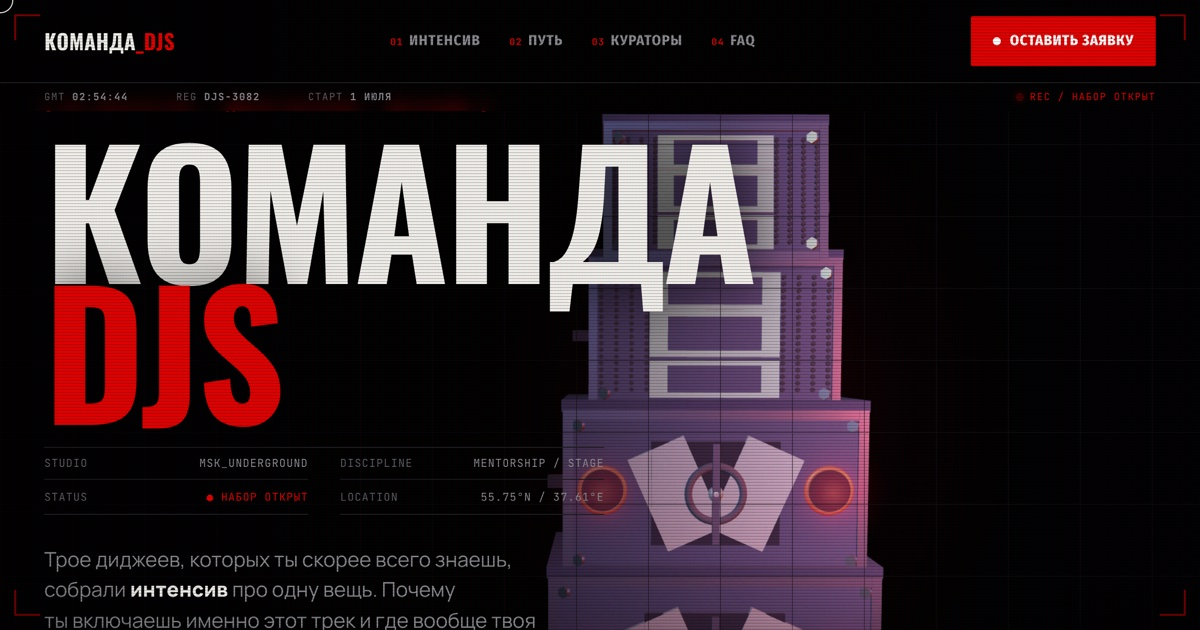
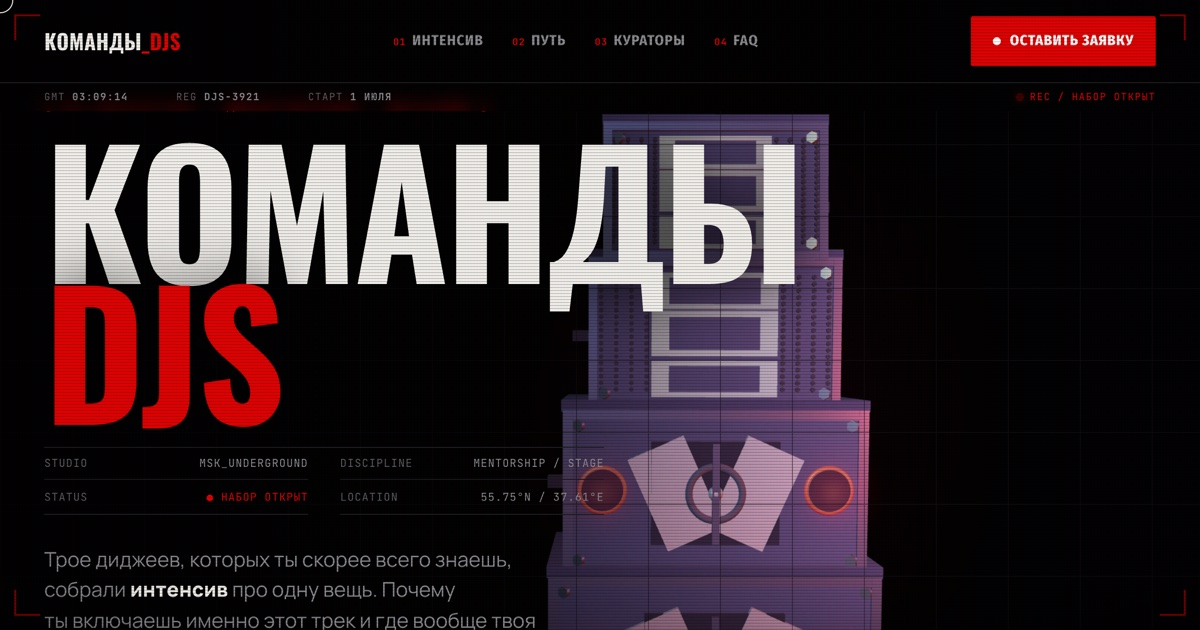
rebrand: КОМАНДА → КОМАНДЫ (бренд/hero/прелоадер/SEO) + новый OG-скриншот

diff --git a/index.html b/index.html
@@ -5,7 +5,7 @@
   <meta name="viewport" content="width=device-width, initial-scale=1.0" />
 
   <!-- ░░ SEO / GEO ░░ -->
-  <title>КОМАНДА DJS · месяц-интенсив по музыкальному вкусу с тремя кураторами</title>
+  <title>КОМАНДЫ DJS · месяц-интенсив по музыкальному вкусу с тремя кураторами</title>
   <meta name="description" content="Это не курс, а месяц реальной работы. Трое диджеев (Никита Меньшов, Никита Соболь, Сергей Донских) собрали интенсив про музыкальный вкус: задания и личная обратная связь по твоей библиотеке. Старт 1 июля, набор ограничен." />
   <meta name="robots" content="index,follow" />
   <meta name="theme-color" content="#000000" />
@@ -14,14 +14,14 @@
   <!-- ░░ Open Graph ░░ -->
   <meta property="og:type" content="website" />
   <meta property="og:locale" content="ru_RU" />
-  <meta property="og:site_name" content="КОМАНДА DJS" />
+  <meta property="og:site_name" content="КОМАНДЫ DJS" />
   <meta property="og:url" content="https://nikumen.github.io/komanda-djs/" />
-  <meta property="og:title" content="КОМАНДА DJS · месяц-интенсив по музыкальному вкусу" />
+  <meta property="og:title" content="КОМАНДЫ DJS · месяц-интенсив по музыкальному вкусу" />
   <meta property="og:description" content="Это не курс. Это месяц реальной работы с тремя кураторами: Меньшов, Соболь, Донских. Задания и личная обратная связь по твоей библиотеке. ● СТАРТ 1 ИЮЛЯ." />
   <meta property="og:image" content="https://nikumen.github.io/komanda-djs/assets/img/og.jpg" />
   <meta property="og:image:width" content="1200" />
   <meta property="og:image:height" content="630" />
-  <meta property="og:image:alt" content="КОМАНДА DJS — интенсив, hero с саунд-системой" />
+  <meta property="og:image:alt" content="КОМАНДЫ DJS — интенсив, hero с саунд-системой" />
   <meta name="twitter:card" content="summary_large_image" />
   <meta name="twitter:image" content="https://nikumen.github.io/komanda-djs/assets/img/og.jpg" />
 
@@ -40,7 +40,7 @@
       {
         "@type": "Organization",
         "@id": "#org",
-        "name": "КОМАНДА DJS",
+        "name": "КОМАНДЫ DJS",
         "description": "Месяц-интенсив по музыкальному вкусу для диджеев с тремя кураторами. Задания и личная обратная связь по библиотеке. Старт 1 июля, набор ограничен.",
         "areaServed": "RU"
       },
@@ -100,8 +100,8 @@
   <!-- ░░ NAV / broadcast-бар ░░ -->
   <header class="nav" id="nav">
     <div class="nav__inner">
-      <a class="nav__brand" href="#hero" aria-label="КОМАНДА DJS, на главную" data-magnet>
-        КОМАНДА<span class="nav__brand-dim">_DJS</span>
+      <a class="nav__brand" href="#hero" aria-label="КОМАНДЫ DJS, на главную" data-magnet>
+        КОМАНДЫ<span class="nav__brand-dim">_DJS</span>
       </a>
       <nav class="nav__links" aria-label="Основная навигация">
         <a class="nav__link" href="#about"><span class="nav__link-idx">01</span> Интенсив</a>
@@ -129,7 +129,7 @@
       <div class="hero__inner">
         <p class="hero__kicker mono">[ DJ COLLECTIVE · ДИСПЕТЧЕРСКАЯ · ИНТЕНСИВ ]</p>
         <h1 class="hero__title" id="hero-heading">
-          <span class="hero__line" data-scramble>КОМАНДА</span>
+          <span class="hero__line" data-scramble>КОМАНДЫ</span>
           <span class="hero__line hero__line--accent" data-scramble>DJS</span>
         </h1>
         <dl class="meta" aria-label="Параметры коллектива">
@@ -355,14 +355,14 @@
   <!-- ░░ FOOTER ░░ -->
   <footer class="footer">
     <div class="wrap footer__inner">
-      <div class="footer__brand">КОМАНДА<span class="nav__brand-dim">_DJS</span></div>
+      <div class="footer__brand">КОМАНДЫ<span class="nav__brand-dim">_DJS</span></div>
       <nav class="footer__links" aria-label="Footer">
         <a href="#about">Интенсив</a>
         <a href="#structure">Путь</a>
         <a href="#curators">Кураторы</a>
         <button class="linklike" data-apply type="button">Заявка</button>
       </nav>
-      <p class="footer__copy mono">© <span id="year">2026</span> КОМАНДА DJS · диспетчерская андеграунда</p>
+      <p class="footer__copy mono">© <span id="year">2026</span> КОМАНДЫ DJS · диспетчерская андеграунда</p>
     </div>
   </footer>
 
@@ -418,6 +418,6 @@
   <!-- ░░ GSAP + ScrollTrigger (defer). three.js грузится lazy из app.js после прелоадера ░░ -->
   <script defer src="https://cdnjs.cloudflare.com/ajax/libs/gsap/3.12.5/gsap.min.js"></script>
   <script defer src="https://cdnjs.cloudflare.com/ajax/libs/gsap/3.12.5/ScrollTrigger.min.js"></script>
-  <script defer src="assets/js/app.js?v=5"></script>
+  <script defer src="assets/js/app.js?v=6"></script>
 </body>
 </html>

diff --git a/assets/js/app.js b/assets/js/app.js
@@ -1,5 +1,5 @@
 /* ════════════════════════════════════════════════════════════════
-   КОМАНДА DJS · variant C — app.js
+   КОМАНДЫ DJS · variant C — app.js
    Прелоадер (canvas-набрызг + gooey-потёки) · GSAP-оркестрация ·
    тикер · модалка · lazy three.js
    ════════════════════════════════════════════════════════════════ */
@@ -14,7 +14,7 @@
   function reg() { return 'DJS-' + String(1000 + Math.floor(Math.random() * 8999)); }
   var REG = reg();
 
-  /* ════════ ПРЕЛОАДЕР — canvas-набрызг «КОМАНДА DJS» ════════ */
+  /* ════════ ПРЕЛОАДЕР — canvas-набрызг «КОМАНДЫ DJS» ════════ */
   function preloader(done) {
     var pre = $('#preloader'), cv = $('#sprayCanvas'), numEl = $('#plNum'), barEl = $('#plBar'), regEl = $('#plReg');
     if (regEl) regEl.textContent = 'REG ' + REG;
@@ -23,7 +23,7 @@
     if (RM) { // reduced-motion: статичный логотип, быстрый уход
       var ctxR = cv.getContext('2d'); cv.width = 760; cv.height = 280;
       ctxR.fillStyle = '#f3f1ec'; ctxR.font = '700 120px Oswald, sans-serif'; ctxR.textAlign = 'center'; ctxR.textBaseline = 'middle';
-      ctxR.fillText('КОМАНДА', 380, 96); ctxR.fillStyle = '#e00000'; ctxR.fillText('DJS', 380, 210);
+      ctxR.fillText('КОМАНДЫ', 380, 96); ctxR.fillStyle = '#e00000'; ctxR.fillText('DJS', 380, 210);
       if (numEl) numEl.textContent = '100'; if (barEl) barEl.style.width = '100%';
       setTimeout(function () { finish(pre, done); }, 500); return;
     }
@@ -37,7 +37,7 @@
       ctx.clearRect(0, 0, W, H);
       ctx.fillStyle = '#fff'; ctx.textAlign = 'center'; ctx.textBaseline = 'middle';
       ctx.font = '700 116px Oswald, "Fira Sans Condensed", sans-serif';
-      ctx.fillText('КОМАНДА', W / 2, 92);
+      ctx.fillText('КОМАНДЫ', W / 2, 92);
       ctx.fillText('DJS', W / 2, 206);
       var d = ctx.getImageData(0, 0, W * DPR, H * DPR).data, w = W * DPR;
       pts = [];

diff --git a/assets/js/accent3d.js b/assets/js/accent3d.js
@@ -1,5 +1,5 @@
 /* ════════════════════════════════════════════════════════════════
-   КОМАНДА DJS · variant C — accent3d.js
+   КОМАНДЫ DJS · variant C — accent3d.js
    Мелкие 3D-акценты по секциям (единство стиля с hero-колонкой):
    · about      → Pioneer DJM-A9 (микшер: каналы, фейдеры, ручки, ROLL)
    · structure  → пэд-контроллер (RGB-перформанс-пэды, glow, цветовая волна)
@@ -294,7 +294,7 @@
     // микро-бренд снизу
     x.fillStyle = 'rgba(20,21,26,0.55)'; x.textAlign = 'center'; x.textBaseline = 'middle';
     x.font = '700 ' + (s * 0.017) + 'px JetBrains Mono, monospace';
-    x.fillText('LOCKED CLUB ✕ КОМАНДА DJS', C, C + s * 0.31);
+    x.fillText('LOCKED CLUB ✕ КОМАНДЫ DJS', C, C + s * 0.31);
     // центральная дырка
     x.beginPath(); x.arc(C, C, s * 0.02, 0, Math.PI * 2); x.fillStyle = '#0a0a0c'; x.fill();
     var tex = new THREE.CanvasTexture(c);

diff --git a/assets/js/hero3d.js b/assets/js/hero3d.js
@@ -1,5 +1,5 @@
 /* ════════════════════════════════════════════════════════════════
-   КОМАНДА DJS · variant C — hero3d.js
+   КОМАНДЫ DJS · variant C — hero3d.js
    Funktion-One-style sound-system stack (процедурный, без внешних моделей):
    · тёмно-синие кабинеты с фасками и угловыми болтами
    · грили-перфорация (InstancedMesh) по фронту
@@ -8,7 +8,7 @@
    · конусы-драйверы с концентрическими кольцами и пыльником
    · fake-bloom: аддитивные радиальные спрайты на красных портах/контуре
    Тёмный свет (кабинеты остаются ТЁМНЫМИ, красный только по краю).
-   Композиция сдвинута вправо, чтобы текст «КОМАНДА DJS» дышал.
+   Композиция сдвинута вправо, чтобы текст «КОМАНДЫ DJS» дышал.
    Диагностика в window.__h3 (убрать после доводки).
    ════════════════════════════════════════════════════════════════ */
 (function () {

diff --git a/assets/css/styles.css b/assets/css/styles.css
@@ -1,5 +1,5 @@
 /* ════════════════════════════════════════════════════════════════
-   КОМАНДА DJS · variant C — «гибрид-рейв» (STVOL: чёрный + красный + CCTV)
+   КОМАНДЫ DJS · variant C — «гибрид-рейв» (STVOL: чёрный + красный + CCTV)
    Анимируем только compositor-свойства: transform / opacity / filter / clip-path
    ════════════════════════════════════════════════════════════════ */
 